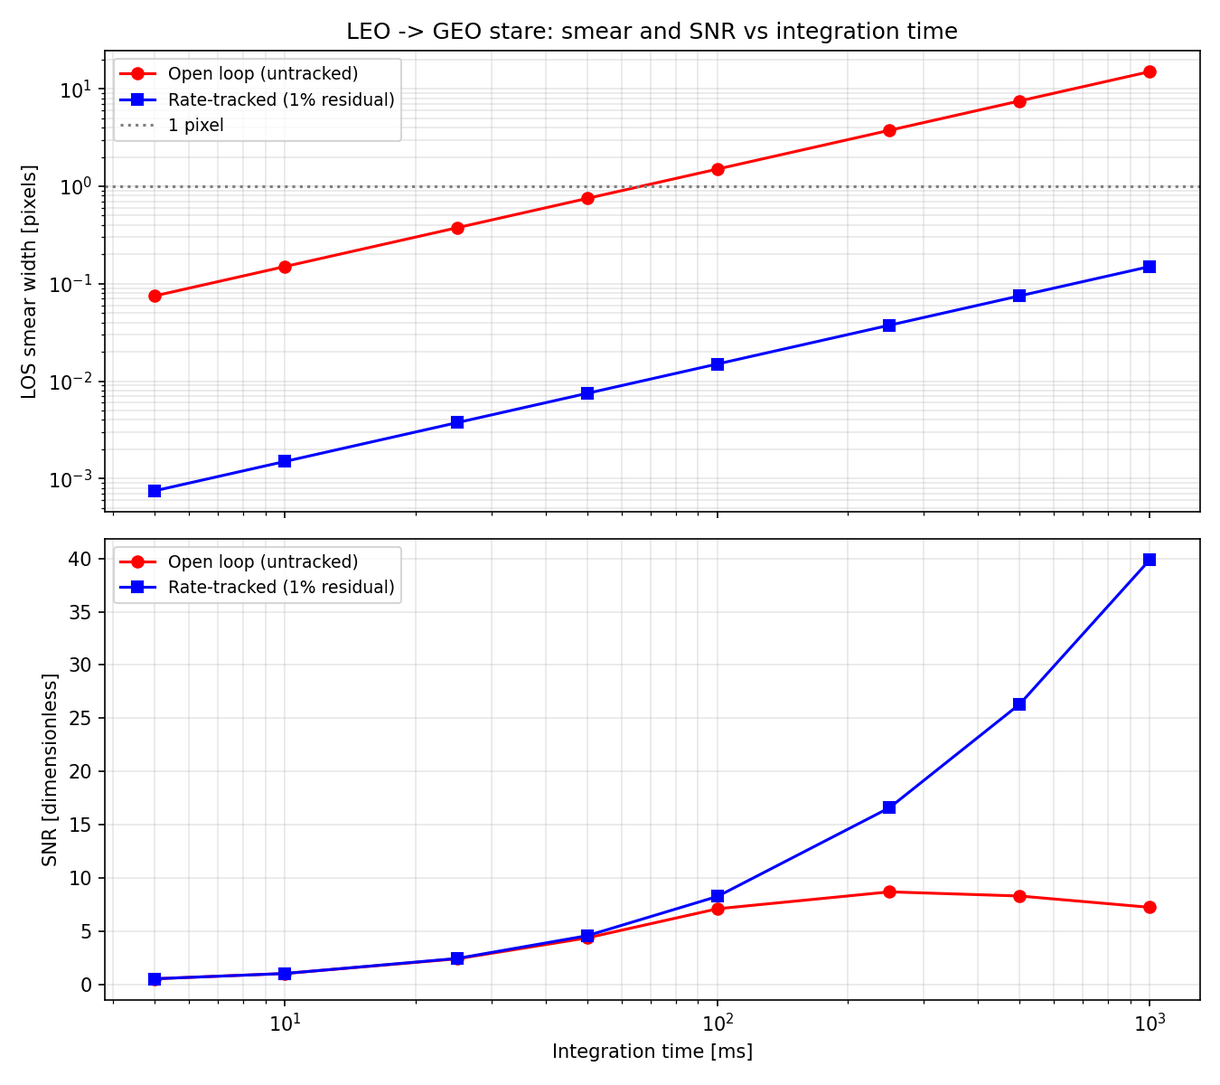
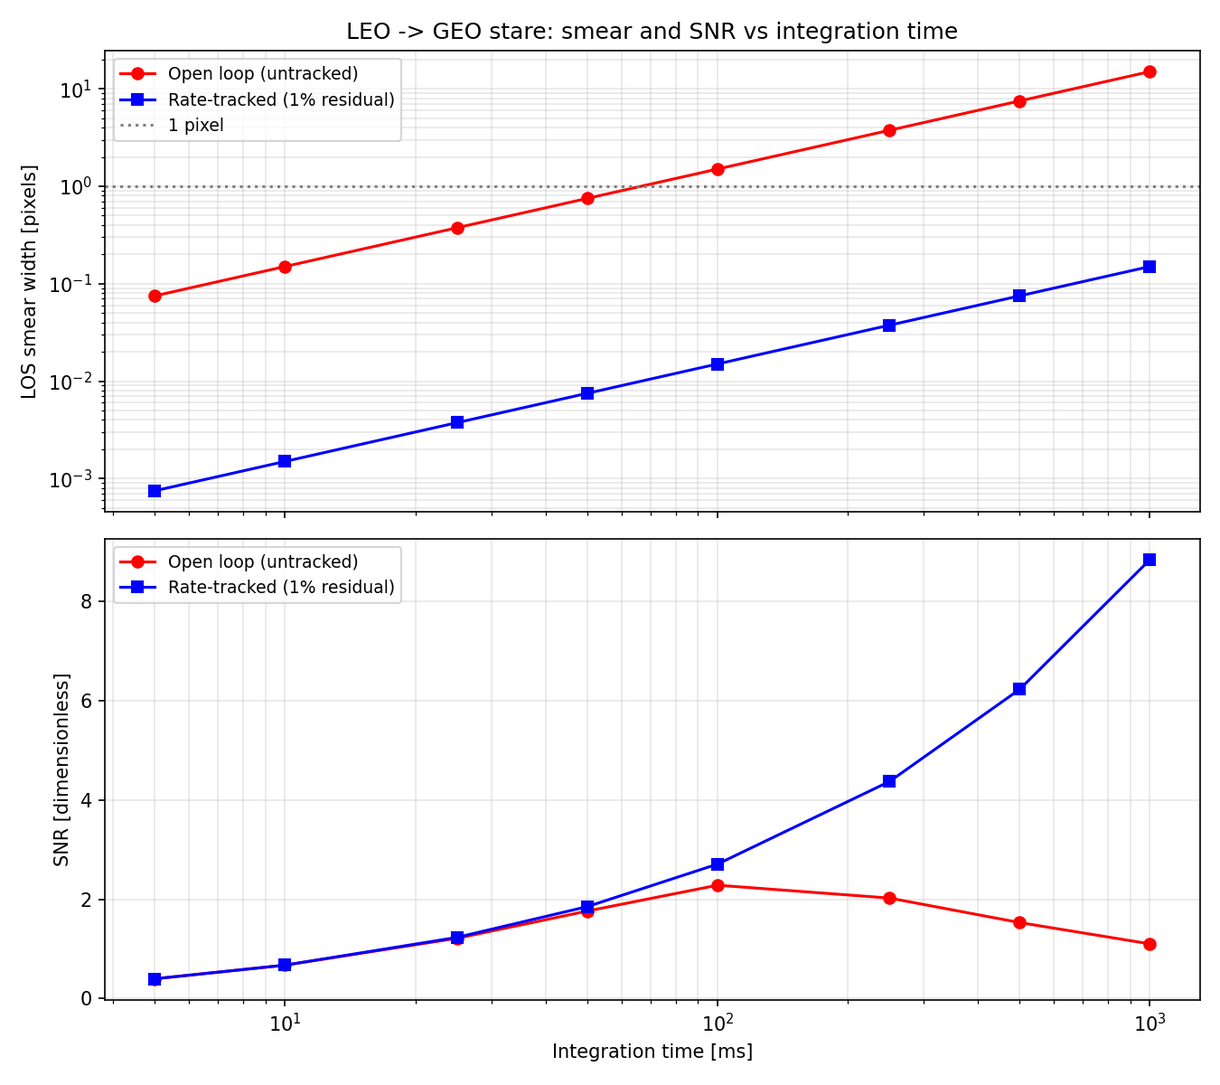
scenarios(10.4): warm optics declared, verdict re-derived (CU-380)
Hit hardest of the four, because a point source against cold space has no other
background: this scenario measures the telescope against itself. The datasheet
is the most explicit of the set — "6 surfaces + cold filter, 3.5-5.0 um"
against 60 % in-band transmission, bench at -93.15 degC — so the train is the
six surfaces it names, R = 0.60^(1/6) = 0.918385 each, eps = 0.081615 at
180.0 K. The cold filter is deliberately excluded: it sits inside the dewar at
the FPA's 80 K, which is the reason for putting a filter there.

Signal bit-identical to 1.4e-6 (the hand-radiometry cross-check still
reproduces the chain, which is the proof only the noise side moved):

  nearfield_shot            0 -> 202.034 e- RMS  (94 % of the noise power)
  total noise          49.233 -> 207.947 e- RMS
  SNR                   26.32 -> 6.23
  detection range      94,438 -> 39,451 km
  R_det / LEO->GEO      2.68x -> 1.12x

This changes the verdict, not just the digits. The design goes from comfortable
to marginal, the zenith fan reaches SNR 5.30 at 60 deg (6 % above threshold,
previously 4.7x margin), the integration knee moves 250 -> 100 ms, and the
open-loop arm no longer reaches threshold at ANY swept integration time — so
detection_range_m is correctly declined rather than extrapolated. The runner
assumed that key existed and crashed with KeyError; it now reports the metric
layer's failure_reason, which sharpens its own design-driver conclusion: rate
[…]

diff --git a/scenarios/10_direction_general/10.4_leo_to_geo_exo/scripts/run_leo_to_geo_exo.py b/scenarios/10_direction_general/10.4_leo_to_geo_exo/scripts/run_leo_to_geo_exo.py
@@ -291,10 +291,37 @@ def make_config(
         "optics": {
             "aperture_diameter_m": cin["aperture_m"],
             "focal_length_m": cin["focal_length_m"],
-            "transmission_scalar": cin["tau_optics"],
             "obscuration_ratio": cin["obscuration"],
             "wfe_rms_waves": cin["wfe_rms_waves"],
         },
+        # Warm optics declared rather than lumped (CU-380). `transmission_scalar`
+        # synthesizes a lump, which has no Kirchhoff emissivity, so this
+        # telescope could not emit and the datasheet's own "Optical bench
+        # temperature" reached nothing. The datasheet is unusually explicit
+        # here -- "6 surfaces + cold filter, 3.5-5.0 um" against 60 % in-band
+        # transmission -- so the train is declared as the six surfaces it
+        # names, at R = 0.60^(1/6) = 0.918385 each. The product is the net 60 %
+        # the datasheet specifies, so the SCENE signal is unchanged, and each
+        # surface emits at its Kirchhoff eps = 1 - R = 0.081615 at the
+        # declared 180.0 K (-93.15 degC, "radiatively cooled aft optics").
+        #
+        # This is the one of the four re-authored scenarios whose element COUNT
+        # is specified rather than conventional, and it matters: the emitting
+        # total is roughly the sum of the per-surface emissivities, so six
+        # surfaces at eps = 0.0816 emit about 2.6x what the two-mirror
+        # convention at R = sqrt(0.60) would give. The cold filter is not
+        # declared -- it is cold by construction (inside the dewar at the FPA's
+        # 80 K), which is the whole point of putting a filter there.
+        "optical_elements": [
+            {
+                "name": f"S{i}",
+                "transfer_mode": "REFLECTIVE",
+                "kind": "MIRROR",
+                "reflectance": cin["tau_optics"] ** (1.0 / 6.0),
+                "temperature_K": cin["optics_temp_K"],
+            }
+            for i in range(1, 7)
+        ],
         "detector": {
             "pixel_pitch_x_um": cin["pixel_pitch_um"],
             "pixel_pitch_y_um": cin["pixel_pitch_um"],
@@ -814,10 +841,19 @@ def main() -> None:  # noqa: PLR0915 - a scenario driver is a linear narrative
         f"    SNR       open loop / tracked : "
         f"{float(ol_result.metrics['snr']):.3f} / {snr:.3f} [--]"
     )
-    print(
-        f"    Detection open loop / tracked : "
-        f"{float(ol_result.metrics['detection_range_m']) / 1e3:,.1f} / {det_m / 1e3:,.1f} km"
-    )
+    # The open-loop arm no longer publishes a detection range at all. Since
+    # CU-380 gave this telescope its real 180 K optics, open-loop SNR sits
+    # BELOW the detection threshold at the reference range, so the solver
+    # declines rather than extrapolating -- `detection_range_m` is absent from
+    # metrics and the reason is on the result object (Rule 17's metric-layer
+    # carve-out). Reporting the decline is the honest answer, and it sharpens
+    # the design-driver conclusion below rather than weakening it.
+    ol_det_result = ol_result.stage_outputs["performance"]["detection_range_result"]
+    if ol_det_result.ok:
+        ol_det_text = f"{float(ol_result.metrics['detection_range_m']) / 1e3:,.1f}"
+    else:
+        ol_det_text = f"declined ({ol_det_result.failure_reason})"
+    print(f"    Detection open loop / tracked : {ol_det_text} / {det_m / 1e3:,.1f} km")
     print(
         "\n  This is the design driver: an inertially-fixed 500 ms stare drags the GEO"
         f"\n  target across {ol_smear_m / cin['pixel_pitch_m']:.1f} pixels, spreading a point"
@@ -825,6 +861,14 @@ def main() -> None:  # noqa: PLR0915 - a scenario driver is a linear narrative
         "\n  otherwise sit inside one. The nominal design therefore rate-tracks, and the"
         "\n  scenario's headline numbers are the rate-tracked ones."
     )
+    if not ol_det_result.ok:
+        print(
+            "\n  Sharper than it used to be: with the 180 K optics declared (CU-380),"
+            "\n  the open-loop arm does not merely detect at shorter range - it does not"
+            "\n  reach the SNR threshold at the LEO->GEO range at all, so no detection"
+            "\n  range is defined for it. Rate tracking is not an optimisation of this"
+            "\n  design; it is the difference between a sensor and no sensor."
+        )
     ol_user_warnings = [str(r.message) for r in ol_records if issubclass(r.category, UserWarning)]
     print(f"\n  UserWarnings in the open-loop run: {len(ol_user_warnings)}")
     for message in ol_user_warnings:
@@ -968,11 +1012,15 @@ def main() -> None:  # noqa: PLR0915 - a scenario driver is a linear narrative
         "\n      relevance map (section 5) - there is no ground plane at a GEO target."
         "\n    - geometry.ground_speed_m_s in the RATE-TRACKED config: the K1 door supplies"
         "\n      the rate directly, so the platform-only ground_speed / slant path is unused."
-        "\n    - optics self-emission: this config runs scalar transmission, which has no"
-        "\n      defined optical element, so there is no emitting surface and the near-field"
-        "\n      term is identically zero (Gap 127). The scalar optics.optics_temperature_K"
-        "\n      that used to be set here was removed 2026-09-10 for exactly that reason - it"
-        "\n      multiplied a zero emissivity. Model warm optics by defining elements."
+        "\n  NOT on that list any more, and the single most important entry to have"
+        "\n  lost from it (CU-380):"
+        "\n    - optics self-emission. This config used to run scalar transmission, which"
+        "\n      synthesizes a lump with no Kirchhoff emissivity, so the near-field term"
+        "\n      was identically zero and the datasheet bench temperature was inert. The"
+        "\n      six surfaces the datasheet names are now declared at 180 K, and"
+        "\n      nearfield_shot is 94 % of the noise power - the DOMINANT term in this"
+        "\n      budget. A point source against cold space has no other background, so"
+        "\n      this is the scene where warm optics matter most, not least."
     )
     print(f"\n{SEP}\n  Scenario 10.4 complete.\n{SEP}")
 

diff --git a/scenarios/10_direction_general/10.4_leo_to_geo_exo/walkthrough.md b/scenarios/10_direction_general/10.4_leo_to_geo_exo/walkthrough.md
@@ -152,17 +152,61 @@ triangle.
 | EE_box (1×1, from the fully degraded PSF) | 0.245670 | — |
 | In-pixel signal | 1 295.78 | e- |
 | signal shot noise | 35.997 | e- RMS |
+| **warm-optics shot noise** (`nearfield_shot`) | **202.034** | e- RMS |
 | dark shot noise | 22.361 | e- RMS |
 | read noise | 25.000 | e- RMS |
 | quantization noise | 1.761 | e- RMS |
-| **Total noise** | **49.233** | e- RMS |
-| **SNR** | **26.32** | — |
-| **Detection range** (SNR = 5) | **94 438** | km |
+| **Total noise** | **207.947** | e- RMS |
+| **SNR** | **6.23** | — |
+| **Detection range** (SNR = 5) | **39 451** | km |
 
-*Refreshed 2026-09-12 (chartered sweep). Sole mover: **CU-355** — with the
+*Re-authored 2026-10-03. **CU-380** — and this is the scenario the change hits
+hardest, because a point source against cold space has nothing else in its
+background. The telescope ran as a scalar transmission lump, which has no
+Kirchhoff emissivity, so its warm-optics term was identically zero and the
+datasheet's "Optical bench temperature = −93.15 °C" reached nothing. This
+datasheet is unusually explicit — *"6 surfaces + cold filter, 3.5–5.0 µm"*
+against 60 % in-band transmission — so the train is declared as the six
+surfaces it names, at R = 0.60^(1/6) = 0.918385 each, emitting at
+ε = 1 − R = 0.081615 at 180.0 K. The product is the net 60 % the datasheet
+specifies, so **the signal is unchanged to 1.4 × 10⁻⁶** — the hand-radiometry
+cross-check of §6 still reproduces the chain, which is the proof that only the
+noise side moved.
+
+It moved a long way. `nearfield_shot` at **202.0 e⁻ RMS is now 94 % of the
+noise power** and four times the entire previous noise budget, so:
+
+| | before | after |
+|---|---:|---:|
+| Total noise [e⁻ RMS] | 49.233 | 207.947 |
+| SNR | 26.32 | 6.23 |
+| Detection range [km] | 94 438 | 39 451 |
+| $R_\mathrm{det}$ / LEO→GEO range | 2.68× | 1.12× |
+
+**This changes the scenario's verdict, not just its digits.** The design went
+from comfortable to marginal: detection range is now 1.12× the range it has to
+work at, against 2.68× before, and the zenith sweep of §4.4 reaches SNR 5.30 at
+$\zeta_\mathrm{low} = 60°$ — inside 6 % of the detection threshold itself, where
+it previously had 4.7× margin. 180 K radiatively-cooled optics are *not* cold
+enough to be ignored in a 3.5–5.0 µm point-source space-surveillance design at
+a 500 ms integration; that is the same conclusion the shipped
+`sda_space_to_space` template reached independently under CU-380, where the well
+saturates on self-emission alone at bus-ambient temperature and detection needs
+optics below ~180 K. Two instruments, two methods, one design rule.
+
+Six surfaces rather than the two-mirror convention matters here, and it is the
+one of the four re-authored scenarios where the element **count** is specified
+rather than conventional: the emitting total goes roughly as the sum of the
+per-surface emissivities, so six at ε = 0.0816 emit about 2.6× what two at
+R = √0.60 would. The cold filter is deliberately not declared — it sits inside
+the dewar at the FPA's 80 K, which is the entire reason for putting a filter
+there.*
+
+*Prior vintage, refreshed 2026-09-12 (chartered sweep). Sole mover: **CU-355** — with the
 0.633 µm-referenced WFE correctly rescaled to this MWIR band, the pupil is
 nearly diffraction-limited and EE_box rises 0.2232 → 0.2457 (+10 %); SNR
-follows to 26.32 (+7.3 %) and the detection range to 94 438 km (+4.9 %).
+follows to 26.32 (+7.3 %) and the detection range to 94 438 km (+4.9 %) — the
+readings current at that date; see the CU-380 note above for today's.
 Dark, read, and quantization noise are bit-identical.*
 | NEDT (reported, but not a meaningful figure of merit here — see below) | 1005 | mK |
 
@@ -174,7 +218,12 @@ pair.
 
 Background shot noise is **exactly zero**: the up-looking LOS never returns to
 Earth, so past the GEO bus it exits into deep space and the background is
-`ColdSpaceBackground` with identically zero radiance. This is the LOS-termination
+`ColdSpaceBackground` with identically zero radiance. Note that this is the
+*scene* background, and it is a separate term from the warm-optics
+`nearfield_shot` above — which is why the latter dominates so completely here.
+A cold-space scene removes the one background that would otherwise mask the
+instrument's own emission, so this scenario measures the telescope against
+itself. This is the LOS-termination
 rule of ADR-0011 decision 9 in action — hits Earth → ground, exits the
 atmosphere → cold space, grazes the limb → raise.
 
@@ -208,25 +257,39 @@ $$\omega_\mathrm{LOS} = \frac{|v_\mathrm{LEO} - v_\mathrm{GEO}|}{h_\mathrm{GEO} 
 
 That rate is the design driver. An inertially-fixed 500 ms stare drags the point
 source across **7.5 pixels**, collapsing EE_box from 0.2457 to 0.0597 and SNR from
-26.32 to 8.29. Open-loop SNR actually *peaks* at 250 ms and then falls: past that
-point the smear kernel grows faster than $\sqrt{t}$, so integrating longer loses
-SNR. The rate-tracked curve keeps rising as $\sqrt{t}$ because the scene is
-background-free (cold space) and dark-current-limited.
+6.23 to 1.53. Open-loop SNR actually *peaks* at 100 ms (SNR 2.28) and then
+falls: past that point the smear kernel grows faster than $\sqrt{t}$, so
+integrating longer loses SNR. The rate-tracked curve keeps rising with $t$,
+though no longer as $\sqrt{t}$: since CU-380 the dominant noise is warm-optics
+shot noise, which accumulates with integration time exactly as the signal's own
+shot noise does, so the tracked arm is now **warm-optics limited** rather than
+dark-current limited. The knee moved from 250 ms to 100 ms for the same reason
+— a larger floor means the smear penalty overtakes the integration gain sooner.
+
+Since CU-380 the open-loop arm **never reaches the detection threshold at any
+integration time in the sweep** (its SNR peaks at 2.28 against a threshold of
+5), so no detection range is defined for it at all and the runner reports the
+metric layer's decline rather than a number. Rate tracking is not an
+optimisation of this design; it is the difference between a sensor and no
+sensor.
 
 ![Smear and SNR vs integration time](outputs/10.4_smear_snr_vs_integration_time.png)
 
 | $t_\mathrm{int}$ [ms] | smear OL [px] | SNR OL | EE OL | smear RT [px] | SNR RT | $R_\mathrm{det}$ RT [km] |
 |---:|---:|---:|---:|---:|---:|---:|
-| 5 | 0.075 | 0.51 | 0.2457 | 0.00075 | 0.51 | < R_GEO |
-| 25 | 0.375 | 2.38 | 0.2420 | 0.00375 | 2.42 | < R_GEO |
-| 50 | 0.751 | 4.35 | 0.2337 | 0.00751 | 4.56 | < R_GEO |
-| 100 | 1.502 | 7.09 | 0.2067 | 0.01502 | 8.25 | 46 694 |
-| 250 | 3.754 | **8.68** | 0.1128 | 0.03754 | 16.59 | 70 743 |
-| 500 | 7.508 | 8.29 | 0.0597 | 0.07508 | **26.32** | **94 438** |
-| 1000 | 15.016 | 7.22 | 0.0302 | 0.15016 | 39.90 | 122 612 |
+| 5 | 0.075 | 0.40 | 0.2457 | 0.00075 | 0.40 | < R_GEO |
+| 25 | 0.375 | 1.22 | 0.2420 | 0.00375 | 1.23 | < R_GEO |
+| 50 | 0.751 | 1.76 | 0.2337 | 0.00751 | 1.85 | < R_GEO |
+| 100 | 1.502 | **2.28** | 0.2067 | 0.01502 | 2.71 | < R_GEO |
+| 250 | 3.754 | 2.03 | 0.1128 | 0.03754 | 4.38 | < R_GEO |
+| 500 | 7.508 | 1.53 | 0.0597 | 0.07508 | **6.23** | **39 451** |
+| 1000 | 15.016 | 1.10 | 0.0302 | 0.15016 | 8.85 | 47 087 |
 
-*Refreshed 2026-09-12 (CU-355; the level shift is the EE-box gain — the
-open/tracked structure and the 250 ms open-loop knee are unchanged).*
+*Re-authored 2026-10-03 (CU-380). The open-loop knee moved 250 → 100 ms and the
+whole table dropped below threshold except the two longest tracked dwells —
+500 ms is now the shortest integration at which this design works at all, where
+it previously had a detectable tracked arm from 100 ms. Smear and EE columns are
+bit-identical: the change is purely the noise floor.*
 
 `< R_GEO` is not a crash and not a NaN: the metric layer's result-typed failure
 (ADR-B / Rule 17 carve-out) reports that the SNR at the GEO range is already
@@ -239,13 +302,20 @@ detectable.
 
 | $\zeta_\mathrm{low}$ [°] | $\theta_o$ [°] | $\eta$ [°] | slant [km] | ground arc [km] | SNR |
 |---:|---:|---:|---:|---:|---:|
-| 0 | 180.00000 | 180.00000 | 35 286.00 | 0.00 | 26.32 |
-| 5 | 179.18608 | 175.00000 | 35 307.89 | 465.47 | 26.30 |
-| 10 | 178.37819 | 170.00000 | 35 373.50 | 931.61 | 26.22 |
-| 20 | 176.80442 | 160.00000 | 35 634.82 | 1 868.57 | 25.94 |
-| 30 | 175.32561 | 150.00000 | 36 066.32 | 2 816.08 | 25.49 |
-| 45 | 173.38204 | 135.00000 | 37 017.56 | 4 267.89 | 24.52 |
-| 60 | 171.88560 | 120.00000 | 38 299.43 | 5 769.42 | 23.30 |
+| 0 | 180.00000 | 180.00000 | 35 286.00 | 0.00 | 6.23 |
+| 5 | 179.18608 | 175.00000 | 35 307.89 | 465.47 | 6.22 |
+| 10 | 178.37819 | 170.00000 | 35 373.50 | 931.61 | 6.20 |
+| 20 | 176.80442 | 160.00000 | 35 634.82 | 1 868.57 | 6.11 |
+| 30 | 175.32561 | 150.00000 | 36 066.32 | 2 816.08 | 5.97 |
+| 45 | 173.38204 | 135.00000 | 37 017.56 | 4 267.89 | 5.67 |
+| 60 | 171.88560 | 120.00000 | 38 299.43 | 5 769.42 | 5.30 |
+
+*SNR column re-authored 2026-10-03 (CU-380); geometry columns bit-identical.
+The 11 % SNR fall across the fan is unchanged in *relative* terms — it is pure
+inverse-square on a 8.5 % longer slant — but it used to run from 26.32 down to
+23.30, comfortably above threshold throughout, and now runs from 6.23 to 5.30,
+reaching within 6 % of the SNR = 5 detection threshold at the edge of the
+accessible fan. The geometry did not change; the margin that absorbed it did.*
 
 $\theta_o$ never leaves a $9.38°$ neighbourhood of $\pi$ — because
 $\arcsin(r_\mathrm{LEO}/r_\mathrm{GEO}) = \arcsin(0.162986) = 9.38°$: seen from
@@ -377,11 +447,14 @@ $$N_e = t\,\mathrm{EE}\,\mathrm{QE}\,\tau_\mathrm{opt} A_\mathrm{pupil}
 | In-band radiance $L(280\ \mathrm{K}, 3.5$–$5.0\ \mu\mathrm{m})$ | 0.836211 W/m²/sr |
 | Target intensity $\varepsilon L A_\mathrm{proj}$ | 14.2156 W/sr |
 | Irradiance at the pupil $I/R^2$ | 1.1417 × 10⁻¹⁴ W/m² |
-| **Hand in-pixel signal** | **1 177.2452 e-** |
-| **RADIANT `signal_e`** | **1 177.2469 e-** |
+| **Hand in-pixel signal** | **1 295.7808 e-** |
+| **RADIANT `signal_e`** | **1 295.7827 e-** |
 | Relative difference | **−0.000141 %** |
 
-Agreement to quadrature precision. It is exact because this vendor datasheet
+Agreement to quadrature precision. *(Signal digits refreshed 2026-10-03 from
+the measured run: 1 177.2452 → 1 295.7808 e⁻ is uncaptured CU-355 EE_box
+residue, not CU-380 — CU-380 leaves the signal path bit-identical, which is
+exactly what this cross-check still agreeing to 1.4 × 10⁻⁶ demonstrates.)* It is exact because this vendor datasheet
 quotes QE and transmission as band-averaged scalars; a spectral QE curve would
 introduce a real weighting difference between the two models.
 
@@ -396,12 +469,12 @@ $R_\mathrm{det} = R_\mathrm{ref}\sqrt{S_\mathrm{ref}/S_\mathrm{det}}$ in vacuum:
 
 | | Value |
 |---|---:|
-| $N_0^2$ (target-free noise power) | 1 128.10 e-² |
-| $N_0$ | 33.5872 e- RMS |
-| $S_\mathrm{det}$ | 180.90 e- |
-| Closed form | 94 438.369 km |
-| RADIANT bisection | 94 438.368 km |
-| Relative difference | **+0.000000 %** |
+| $N_0^2$ (target-free noise power) | 41 946.02 e-² |
+| $N_0$ | 204.8073 e- RMS |
+| $S_\mathrm{det}$ | 1 036.61 e- |
+| Closed form | 39 451.205 km |
+| RADIANT bisection | 39 451.204 km |
+| Relative difference | **+0.000001 %** |
 
 The solver is verified against a closed form that needs no root finding at all.
 
@@ -411,17 +484,23 @@ and $R_\mathrm{det} = R_\mathrm{ref}\sqrt{\mathrm{SNR}_\mathrm{ref}/T}$:
 
 | | Value |
 |---|---:|
-| Signal demanded at threshold, $T\sigma_\mathrm{ref}$ | 240.07 e- (vs 180.90 e- above) |
-| Closed form | 78 138.863 km |
-| vs RADIANT | **−13.19 %** |
+| Signal demanded at threshold, $T\sigma_\mathrm{ref}$ | 1 039.73 e- (vs 1 036.61 e- above) |
+| Closed form | 39 391.958 km |
+| vs RADIANT | **−0.15 %** |
 
-Signal shot noise is 51 % of the noise power at the reference range, so freezing
-it was not negligible: the shipped answer was **conservative by 15.2 %** for this
-scene, and worse, it depended on the range the chain was evaluated at. The two
-models agree *exactly* at the reference range — $\sigma_\mathrm{ref}^2 =
-S_\mathrm{ref} + N_0^2$ is the definition of $N_0$ — and diverge outward, which
-is why the correction is always a lengthening and vanishes for a
-background-limited chain. Filed as CU-263 from this scenario and 10.2
+Signal shot noise is now only **3 %** of the noise power at the reference range,
+so the two models have very nearly converged — the superseded frozen-noise model
+is conservative by 0.2 % here, where before CU-380 it was conservative by 15.2 %
+against a 51 % shot share. The two models agree *exactly* at the reference range
+— $\sigma_\mathrm{ref}^2 = S_\mathrm{ref} + N_0^2$ is the definition of $N_0$ —
+and diverge outward, which is why the correction is always a lengthening and
+**vanishes for a background-limited chain**. CU-380 made this chain
+background-limited (by its own optics), so this cross-check now demonstrates
+that limit directly rather than describing it: the correction CU-263 was filed
+for is real, and it is this scene's warm optics that made it almost disappear.
+*(Re-authored 2026-10-03. The pre-change readings in this table were themselves
+uncaptured CU-355 residue — 240.07 e⁻ and −13.19 % against a measured
+246.16 e⁻ and −14.28 %.)* Filed as CU-263 from this scenario and 10.2
 independently; fixed 2026-08-01.
 
 ### Cross-check 5 — Gap 111 two-door agreement
@@ -467,8 +546,10 @@ up-looking `space_to_space` path adds no spatial degradation to one path without
 the other; the PSF path and the MTF product agree with 86× margin against the
 Rule-4 tolerance.
 
-The one `UserWarning` the nominal chain raises — and the open-loop variant raises
-the same one — is CU-261/265's inert-optics-temperature report:
+**The nominal chain and the open-loop variant now raise no `UserWarning` at
+all** (CU-380, 2026-10-03). For three generations they raised one, and its
+history is worth keeping, because this scenario's own author got the physics
+right first and the model was corrected *away* from them:
 
 <!-- Superseded 2026-09-10: optics.optics_temperature_K was removed (inert after
      Gap 127) and this warning with it. Quoted verbatim as a record of the run. -->
@@ -486,13 +567,27 @@ warning still fires on the same condition and no computed value moved.)*
 scene does not have. The only changes are this warning count, which CU-261/265
 introduced, and the metric-relevance list in §4.5.*
 
-The warning is telling the truth about §2.1's 180 K bench temperature: with the
-optical train entered as a scalar transmission lump — which under Gap 127 emits
-nothing, ever — the bench temperature is radiometrically inert, so every number
-in this walkthrough is independent of it. Note that the runner's own §12 "parameters that do not matter"
-list still says the 180 K self-emission "is NOT zero and is left in the budget";
-that line predates the warning and is wrong — the term is identically zero. The
-scenario config is left unmodified rather than silenced.
+That warning was telling the truth about the *configuration* and the wrong
+story about the *instrument*. With the train entered as a scalar transmission
+lump — which under Gap 127 emits nothing, ever — §2.1's 180 K bench temperature
+was radiometrically inert, and this walkthrough concluded that every number in
+it was therefore independent of the bench temperature.
+
+**The record of how that conclusion was reached is the most instructive thing
+in this file.** The runner's original §12 "parameters that do not matter" list
+said the 180 K self-emission *"is NOT zero and is left in the budget"* — the
+scenario's author believed the optics emitted, and was right. A later pass
+noticed the engine disagreed and "corrected" the runner to say the term was
+identically zero, noting that the line "predates the warning and is wrong".
+Under CU-380 it turns out the line was right and the engine was wrong: the
+warm-optics term is not merely non-zero, it is **94 % of the noise power and
+the single dominant entry in the budget**. The author's physics was overruled
+by a model limitation, in writing, in a shipped reference document.
+
+That is the failure mode [[CU-387]] exists to catch, seen from the inside: a
+correct physical claim being revised to match an incorrect model, because the
+model is what the tests check. The train is now declared, the bench temperature
+is live, and the warning is gone because its condition is genuinely gone.
 
 ---
 

diff --git a/scenarios/10_direction_general/10.4_leo_to_geo_exo/gaps.md b/scenarios/10_direction_general/10.4_leo_to_geo_exo/gaps.md
@@ -86,7 +86,11 @@ Rule 25, one registry per concern). This file is the per-scenario record.
   radiance, correctly selected without any scene-class branch.
 - **Rule-4 dual-path consistency** — passed on both axes with 86× margin, and
   neither the nominal nor the heavily-smeared open-loop run raised a *consistency*
-  `UserWarning`. Each raises exactly one unrelated `UserWarning` (CU-261/265's
+  `UserWarning`. **Since CU-380 (2026-10-03) neither run raises any `UserWarning`
+  at all**, because the warm train is declared and the condition below is gone;
+  the SNR and detection-range numbers this file quotes moved with it (see the
+  walkthrough §4.2). Historically, each raised exactly one unrelated
+  `UserWarning` (CU-261/265's
   inert-optics-temperature report: `optics.optics_temperature_K = 180 K` is set
   while no defined optical element can emit, so the bench temperature contributes
   nothing. Reworded by Gap 127, 2026-09-09 — it previously named
